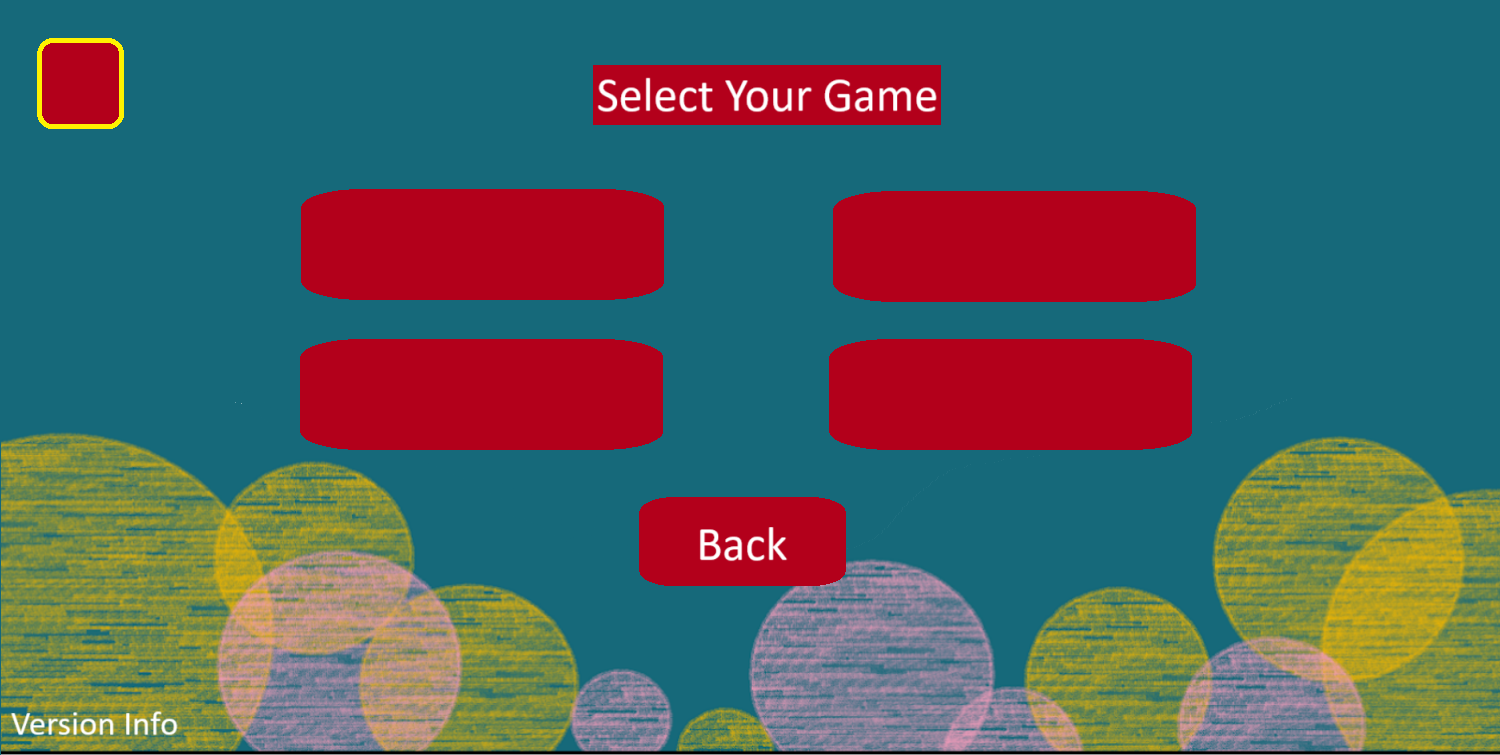
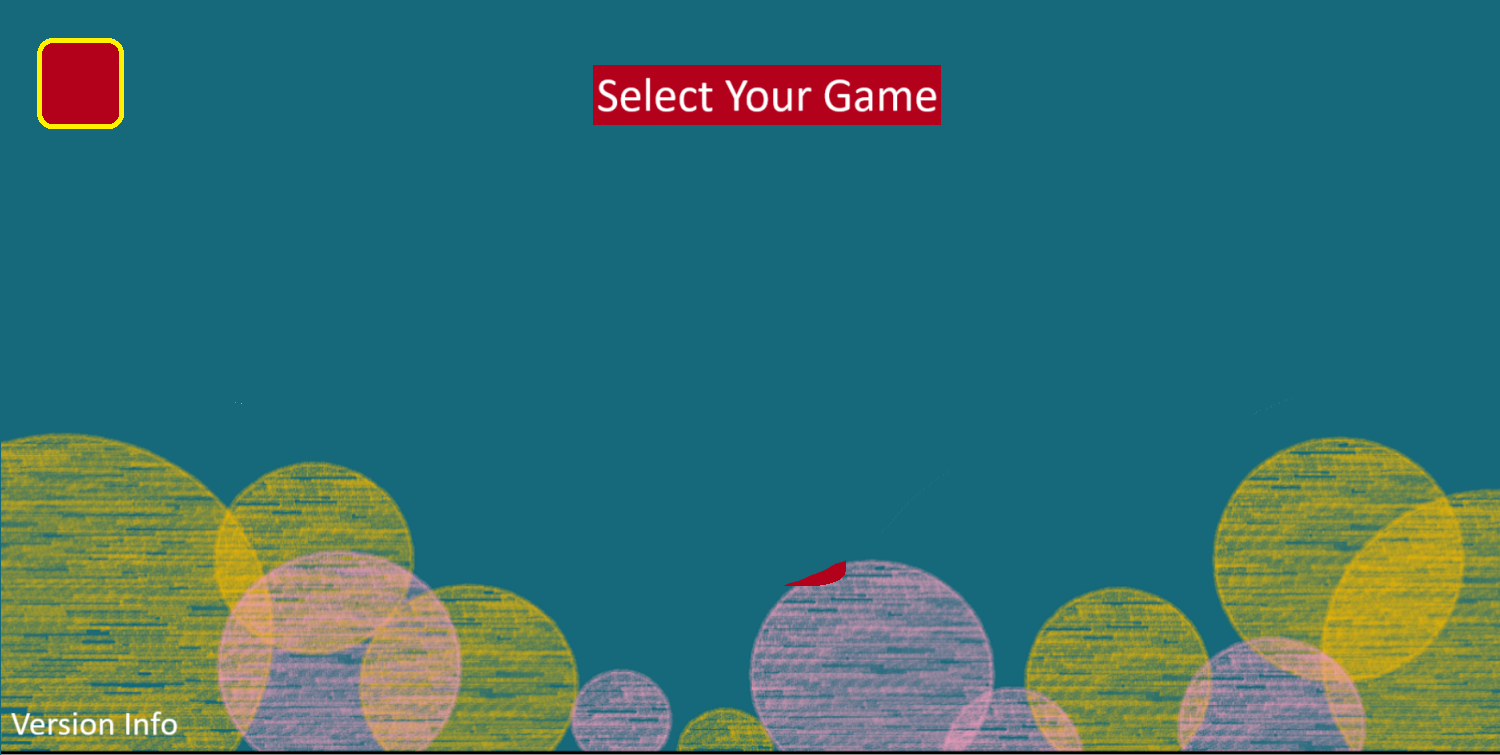
main menu and game selection menu completed, all that'll be left is to link in the files for the games, and the file with the scores.

diff --git a/main_menu/combinedmenutest.py b/main_menu/combinedmenutest.py
@@ -11,42 +11,79 @@ import webbrowser
 screen_width = 1500
 screen_height = 754
 
+#sets up screen as a callable variable, names the window vv
 screen = pygame.display.set_mode((screen_width, screen_height))
 pygame.display.set_caption('KASD Game Launcher')
 
 main_menu_bg_img = pygame.image.load('main_menu_assets\main background.png')
 #imports the background image (yes i drew it in Ms paint sue me)
 
+#main buttons image import vv
 start_img = pygame.image.load('main_menu_assets\start button.png').convert_alpha()
 quit_img = pygame.image.load('main_menu_assets\Quit.png').convert_alpha()
 vinfo_img = pygame.image.load('main_menu_assets/version info.png').convert_alpha()
 #imports images to use as buttons on screen. the .convert_alpha() preserves the transparency of png images
 
+#gameselect buttons vv
+dogdash_img = pygame.image.load('main_menu_assets\dogdash selection bttn.png')
+dominoes_img = pygame.image.load('main_menu_assets\dominoes selecbttn.png')
+snekNladder_img = pygame.image.load('main_menu_assets\Snakes n ladders selecbttn.png')
+ach_img = pygame.image.load('main_menu_assets/achievements.png')
+back_img = pygame.image.load('main_menu_assets/back bttn.png')
+
 repo = 'https://github.com/DonovanMcKenzie/Programming-For-Data-Analytics-Group-Assignment'
 #link to repository for version info button
         
-#below are button instances of the button
+#below are button instances of buttons
+#main vv
 start_bttn = buttons.Button(588, 327, start_img)
 quit_bttn = buttons.Button(621, 460, quit_img)
 vinfo = buttons.Button(4, 702, vinfo_img)
-
+#game select vv
+dd_bttn = buttons.Button( 300, 270 , dogdash_img)
+dominoes_bttn = buttons.Button( 730, 270, dominoes_img)
+snek_bttn = buttons.Button( 730, 430, snekNladder_img)
+ach_bttn = buttons.Button(36, 37, ach_img)
+back_bttn = buttons.Button(638, 600, back_img)
 
 
 runtime = 1
 #gameloop runtime variable
 
+#gamestate variables
+menustate = "main"
+
 while runtime == 1:
 #gameloop
     
+    screen.blit(main_menu_bg_img, (0, 0))
+    
+    
+    if vinfo.draw(screen):#draws the vinfo button regardless
+            webbrowser.open(repo)
+    #below checks which menu we are to be in, determining which buttons to show.
+    if menustate == "main": 
     #now we call the instances of buttons to the screen     
-    if quit_bttn.draw(screen):
-        runtime = 0
+        if quit_bttn.draw(screen):
+            runtime = 0
+        if start_bttn.draw(screen):
+            menustate = "gameselect"
+    if menustate == "gameselect":#checks for the start button being pressed and changes the buttons
+        if ach_bttn.draw(screen):
+            print(f"High score")
         
-    if vinfo.draw(screen):
-        webbrowser.open(repo)
+        if dd_bttn.draw(screen):
+            print(f"Doge")
+    
+        if snek_bttn.draw(screen):
+            print(f"snek")
+    
+        if dominoes_bttn.draw(screen):
+            print(f"domino")
+        if back_bttn.draw(screen):
+            menustate = "main"
         
-    if start_bttn.draw(screen):
-        import gameselect
+        
         
     
     #below is the event handler
@@ -56,8 +93,6 @@ while runtime == 1:
             runtime = 0
 
             
-            
-    screen.blit(main_menu_bg_img, (0, 0))
     
     pygame.display.update()
     #screen upkeep

diff --git a/shared/buttons.py b/shared/buttons.py
@@ -23,6 +23,7 @@ class Button():
         #resets the button after a click        
         if pygame.mouse.get_pressed()[0] == 0:
             self.clicked = False
+            
                 
         #this part actually draws the button
         surface.blit(self.image, (self.rect.x, self.rect.y))
